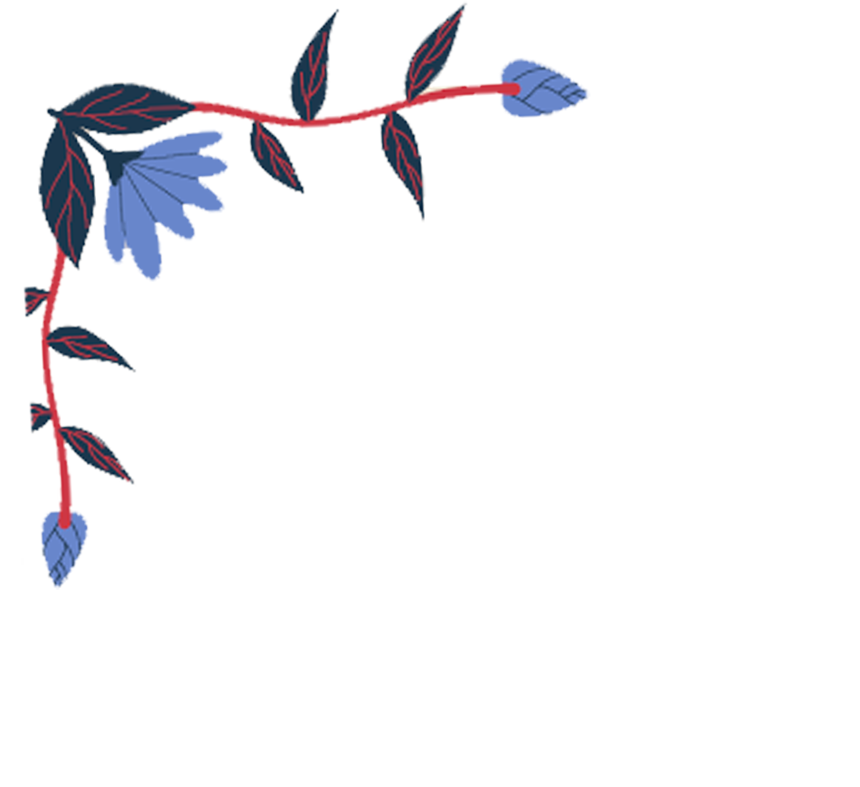
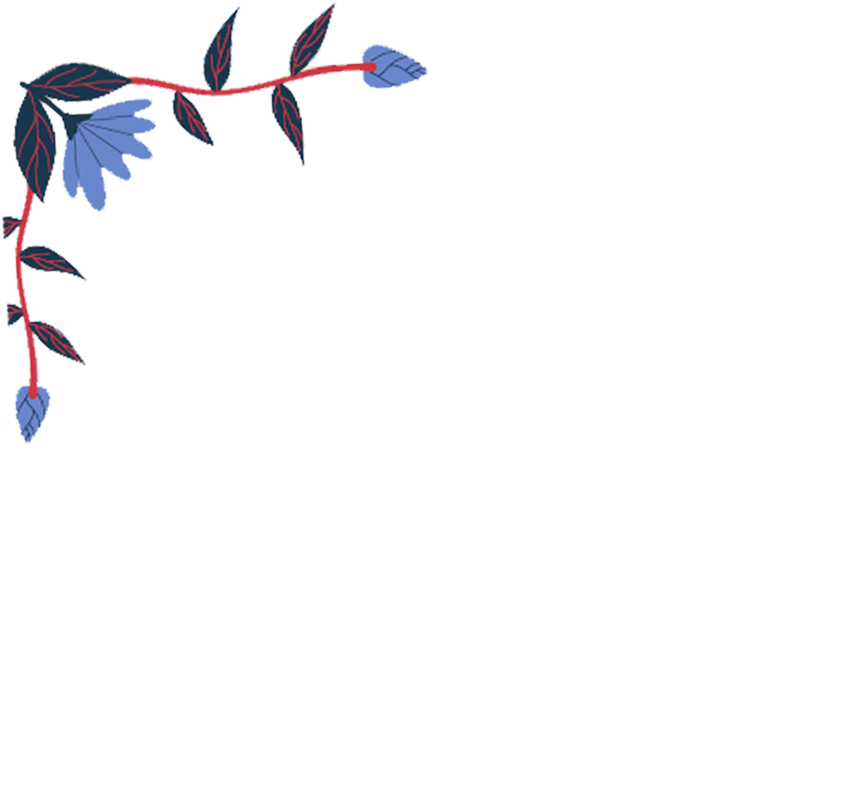
ui and top images changed

Changed region(s): [[0.0, 0.0, 0.6953, 0.7624]]

diff --git a/assets/bootstrap/css/style.css b/assets/bootstrap/css/style.css
@@ -229,7 +229,7 @@
 }
 .aro_bg_img {
     background: linear-gradient(rgb(231, 230, 232, .90), rgb(249, 249, 250, .67)),url(../../images/aro.png);
-    height: 100vh;
+    /*height: 100vh;*/
     background-position: center;
     background-repeat: no-repeat;
     background-size: cover;
@@ -237,10 +237,10 @@
 .aro_top:before{
     content: '';
     background: url(../../images/aro_top.png) top left no-repeat;
-    width: 70%;
+    width: 100%;
     height: 100%;
-    top: 60px;
-    left: -6px;
+    top: -45px;
+    left: -8px;
     position: absolute;
     background-size: contain;
     opacity: .9;
@@ -263,7 +263,7 @@
 }
 .aboutus_bg_img {
     background: linear-gradient(rgb(231, 230, 232, .97), rgb(249, 249, 250, .90)),url(../../images/about.jpg);
-    height: 100vh;
+    /*height: 100vh;*/
     background-position: center;
     background-repeat: no-repeat;
     background-size: cover;
@@ -271,10 +271,10 @@
 .aboutus_top:before{
     content: '';
     background: url(../../images/about_top.png) top left no-repeat;
-    width: 115%;
+    width: 100%;
     height: 100%;
-    top: 60px;
-    left: -6px;
+    top: -45px;
+    left: -8px;
     position: absolute;
     background-size: contain;
     opacity: .9;
@@ -297,7 +297,7 @@
 }
 .get_in_touch_bg_img {
     background: linear-gradient(rgb(231, 230, 232, 1), rgb(249, 249, 250, 1)),url(../../images/aro.png);
-    height: 100vh;
+    /*height: 100vh;*/
     background-position: center;
     background-repeat: no-repeat;
     background-size: cover;
@@ -305,13 +305,22 @@
 .get_in_touch_top:before{
     content: '';
     background: url(../../images/get_top.png) top left no-repeat;
-    width: 110%;
+    width: 100%;
     height: 100%;
-    top: 60px;
-    left: 0px;
+    top: -33px;
+    left: -12px;
     position: absolute;
     background-size: contain;
     opacity: .9;
+}
+@media (max-width: 767.98px){
+.get_in_touch_bg_img {
+  height: 100vh;
+}
+.get_in_touch_list{
+  background: #fff;
+  margin-top: 0px;
+}
 }
 /*--------------------------------------------------------------
 #contactus
@@ -327,4 +336,9 @@
     background-position: center;
     background-repeat: no-repeat;
     background-size: cover;
+}
+@media (max-width: 767.98px){
+.contactus_bg_img {
+  height: 100%;
+}
 }

diff --git a/index.html b/index.html
@@ -4,7 +4,7 @@
   <meta charset="utf-8">
   <meta name="viewport" content="width=device-width, initial-scale=1.0, maximum-scale=1.0 shrink-to-fit=no, user-scalable=0">
 
-  <title>Sample</title>
+  <title>Shojar</title>
   <meta content="" name="descriptison">
   <meta content="" name="keywords">
 
@@ -195,7 +195,7 @@
     <div class="container-fluid px-0">
       <div class="row mx-0">
         <div class="col-lg-4 col-md-5 col-sm-12 aromatherapy_content" data-aos="fade-left">
-          <div class="container aro_top" style="height: 80vh;">
+          <div class="container aro_top position-relative" style="height: 80vh;">
             <h2 class="ff_trajana text_darkgray text-center mt-5 pt-3">
               ABOUT AROMATHERAPY
             </h2>
@@ -229,7 +229,7 @@
     <div class="container-fluid px-0">
       <div class="row mx-0">
         <div class="col-lg-4 col-md-5 col-sm-12 aboutus_content" data-aos="fade-up">
-          <div class="container aboutus_top" style="height: 80vh;">
+          <div class="container aboutus_top position-relative" style="height: 80vh;">
             <h2 class="ff_trajana text_darkgray text-center mt-5 pt-5">
               ABOUT US
             </h2>
@@ -261,7 +261,7 @@
     <div class="container-fluid px-0">
       <div class="row mx-0">
         <div class="col-lg-4 col-md-5 col-sm-12 get_in_touch_content">
-          <div class="container get_in_touch_top" style="height: 80vh;">
+          <div class="container get_in_touch_top position-relative mb-5" style="height: 80vh;">
             <form action="mailto:sakir@shojor.com" method="post">
               <h2 class="ff_trajana text_darkgray text-center mt-5 pt-5">
                 GET IN TOUCH
